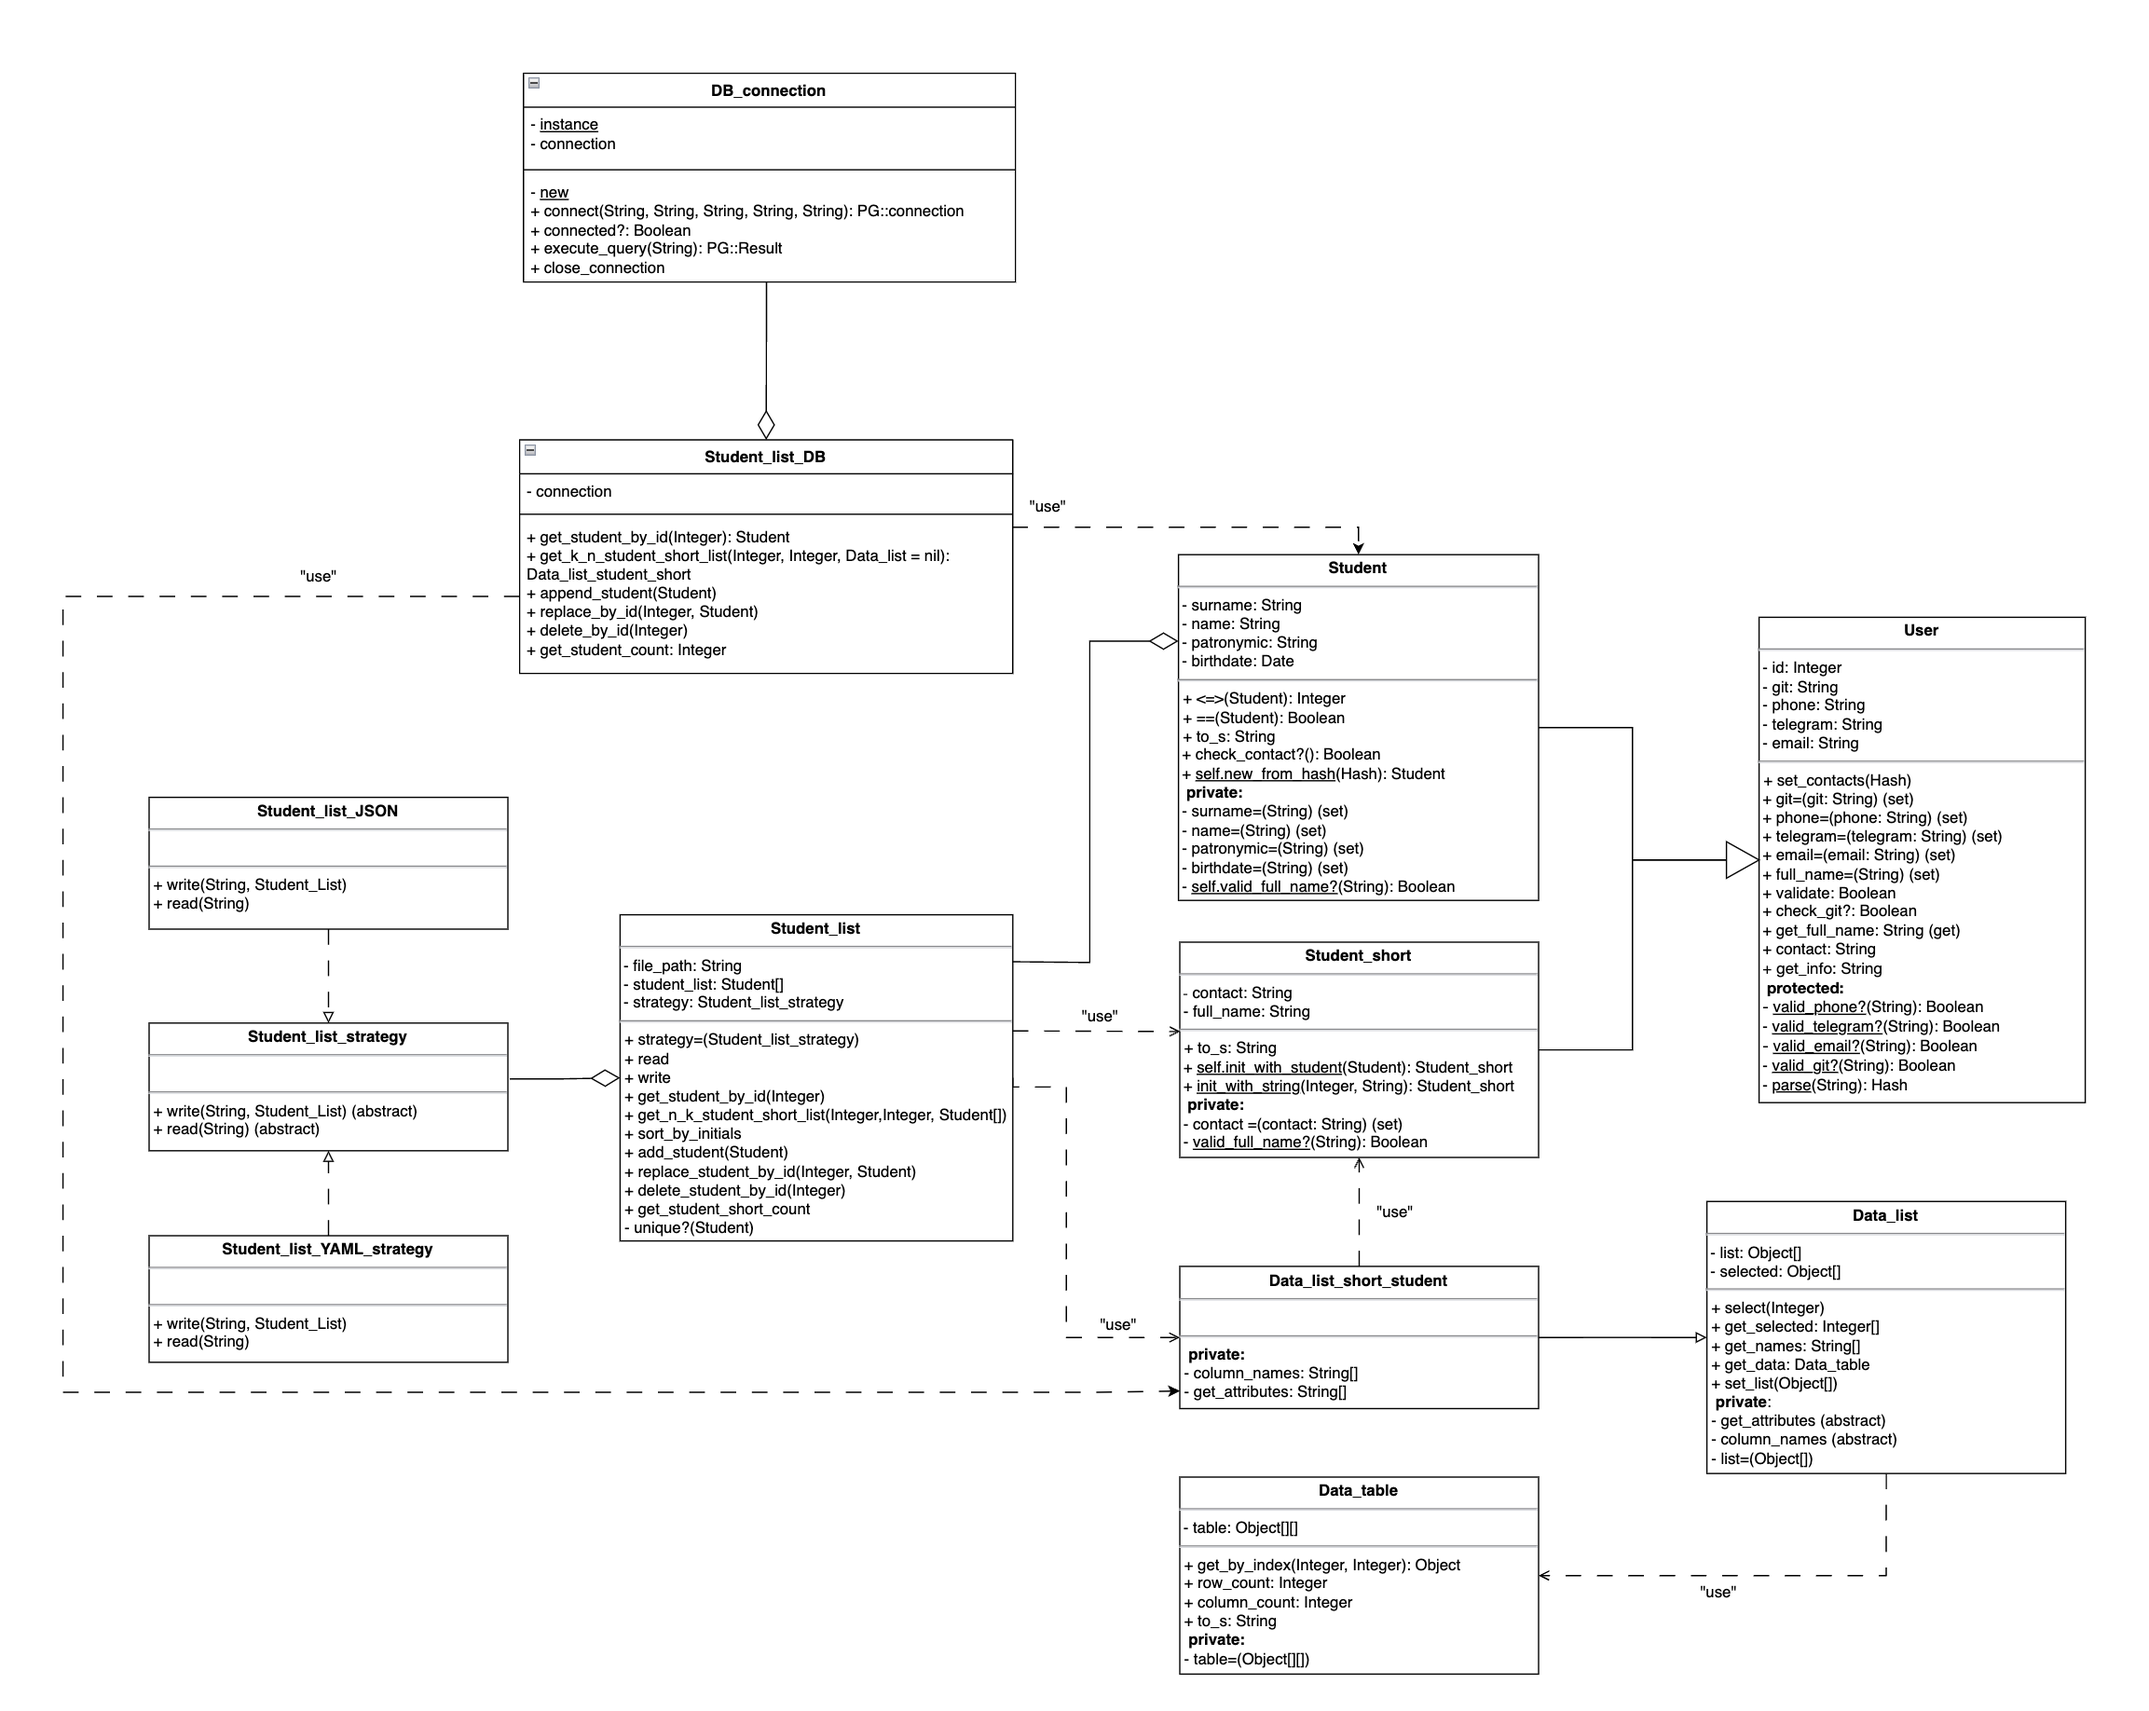
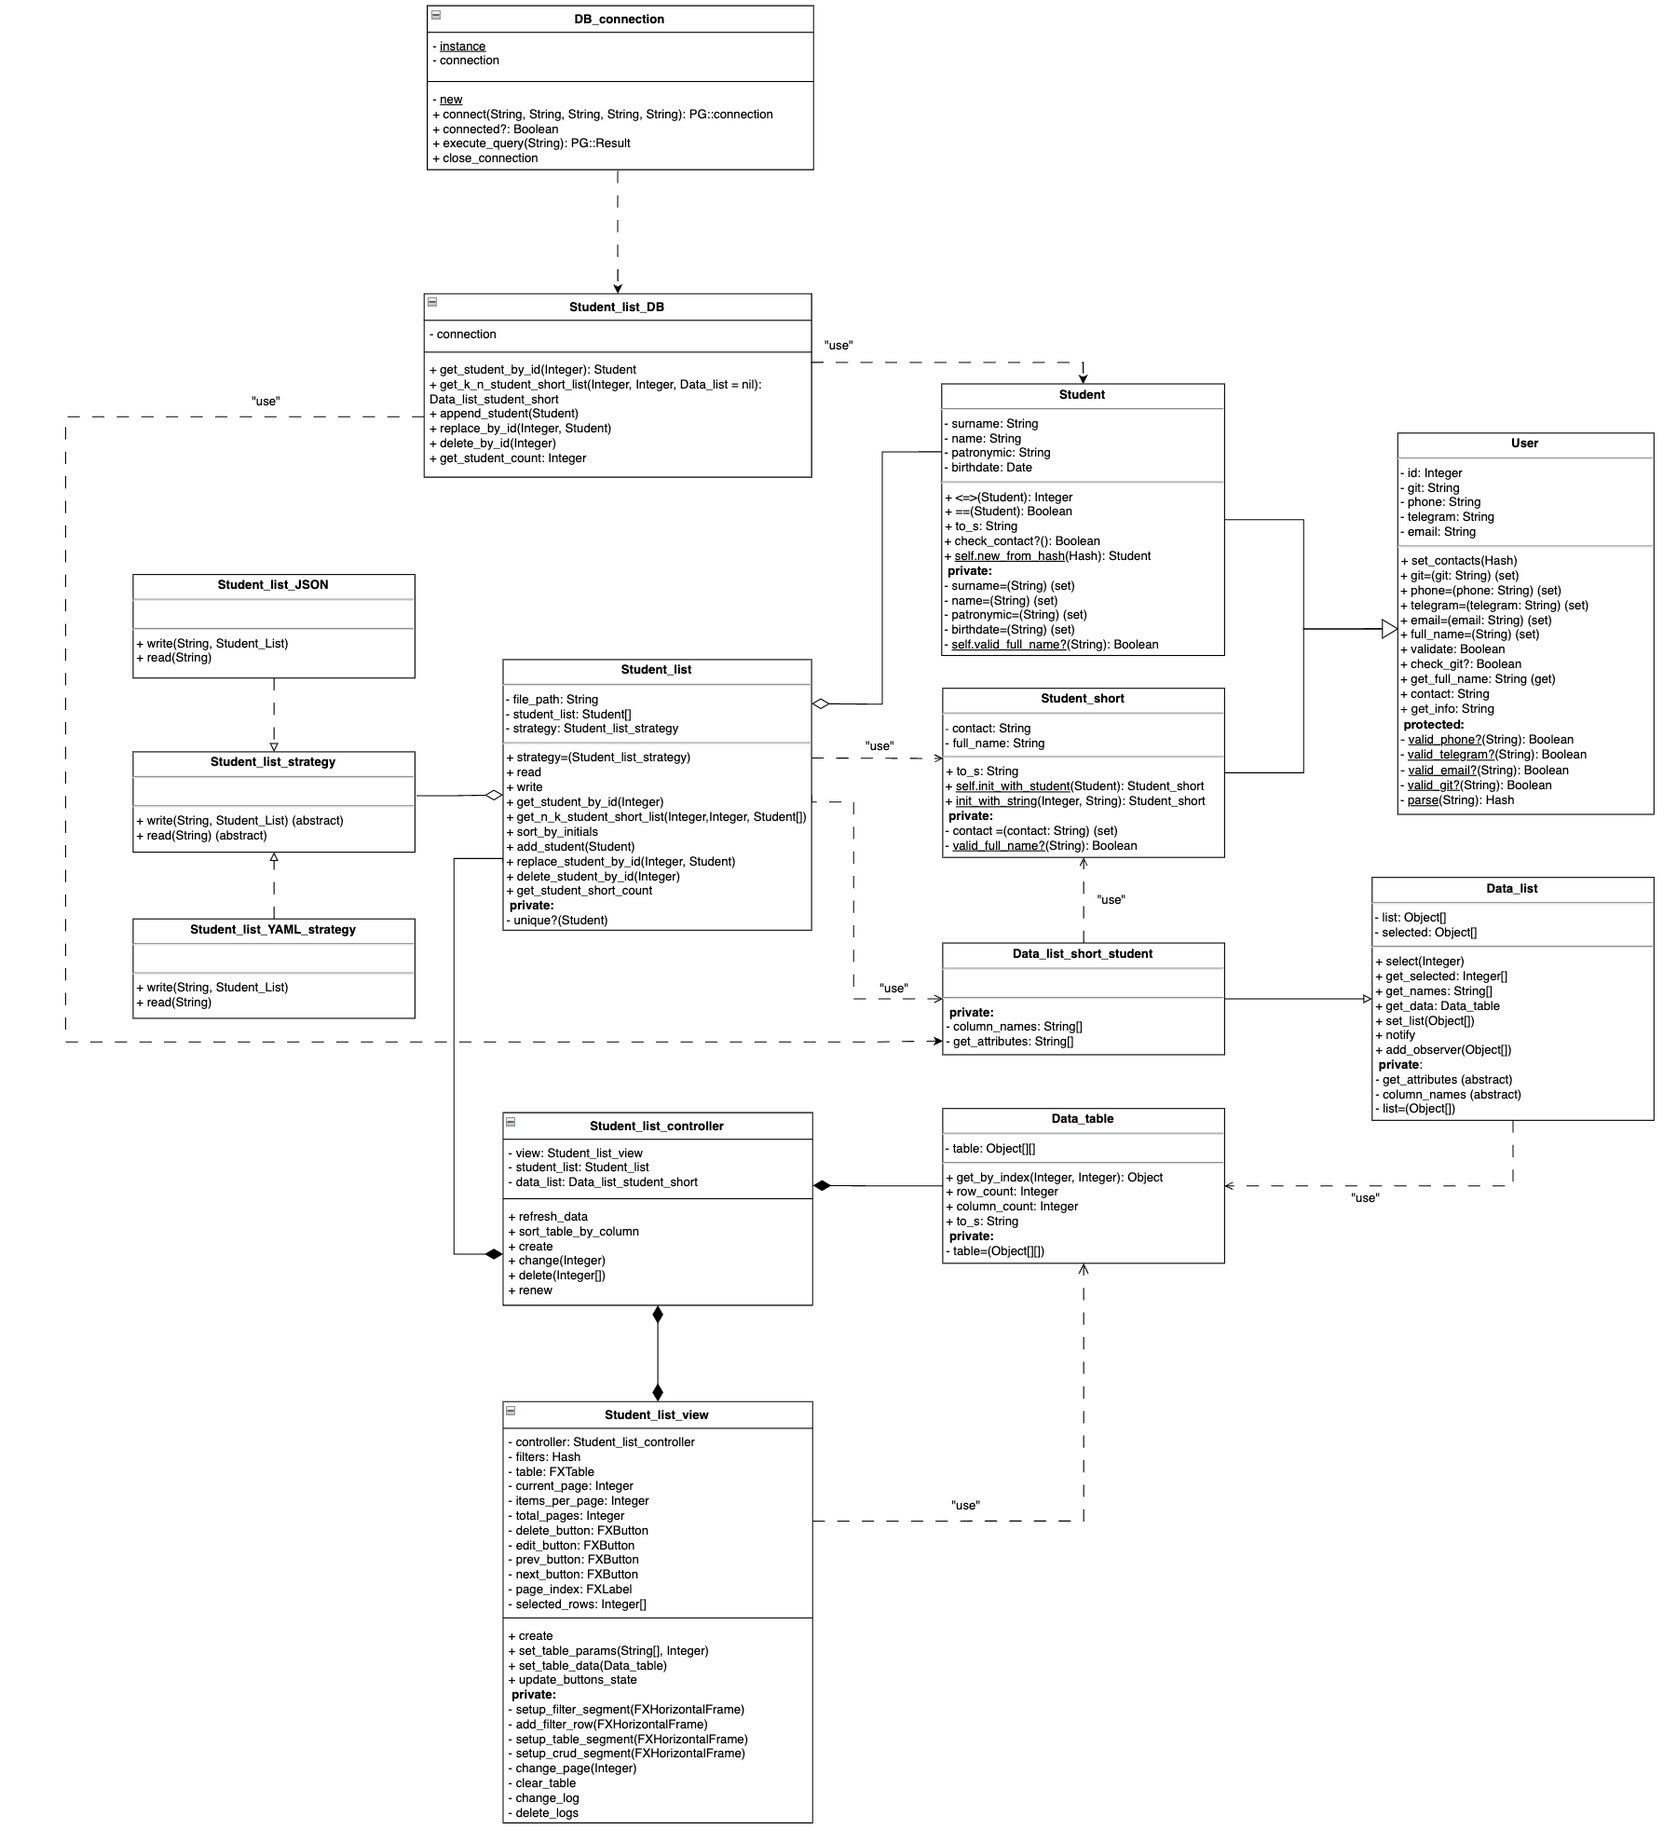
LR5.1: Update class diagrams, add sequence diagram and clean code

diff --git a/Student Authorization System/app/student_list_controller.rb b/Student Authorization System/app/student_list_controller.rb
@@ -19,6 +19,7 @@ class Student_list_controller
     end
   end
 
+  # Обновление данных
   def refresh_data
     # Контроллер вызывает метод get_k_n_student_short_list у класса Students_list
     # Объект data_list_student_short сохраняется в отдельном поле
@@ -28,25 +29,30 @@ class Student_list_controller
     self.data_list.notify
   end
 
+  # Создание новой записи
   def create
     puts "Create new student"
   end
 
-  def update(indexes)
-    return if indexes.nil?
+  # Изменение записи студента
+  def change(number)
+    return if number.nil?
     puts "Change student with index #{number}"
   end
 
+  # Удаление записи студента
   def delete(indexes)
     return if indexes.nil?
     puts "Delete student with index #{indexes}"
   end
 
+  # Сортировка таблицы по колонке с фамилиями и инициалами
   def sort_table_by_column
     self.student_list.sort_by_initials
     self.data_list.notify
   end
 
+  # Обновление данных в таблице после изменения файла
   def renew
     self.student_list.read
     self.refresh_data

diff --git a/Student Authorization System/app/student_list_view.rb b/Student Authorization System/app/student_list_view.rb
@@ -119,7 +119,7 @@ class Student_list_view < FXMainWindow
 
     self.edit_button = FXButton.new(parent, "Change", opts: LAYOUT_FILL_X | BUTTON_NORMAL)
     edit_button.connect(SEL_COMMAND) do
-      update_log
+      change_log
     end
 
     refresh_button = FXButton.new(parent, "Update", opts: LAYOUT_FILL_X | BUTTON_NORMAL)
@@ -172,14 +172,16 @@ class Student_list_view < FXMainWindow
     end
   end
 
-  def update_log
+  # Нажатие кнопки "Изменить"
+  def change_log
     self.selected_rows = []
     (0...self.table.numRows).each do |row_ix|
         self.selected_rows << row_ix if self.table.rowSelected?(row_ix)
     end
-    self.controller.update(self.selected_rows[0])
+    self.controller.change(self.selected_rows[0])
   end
 
+  # Нажатие кнопки "Удалить"
   def delete_logs
     self.selected_rows = []
     (0...self.table.numRows).each do |row_ix|
